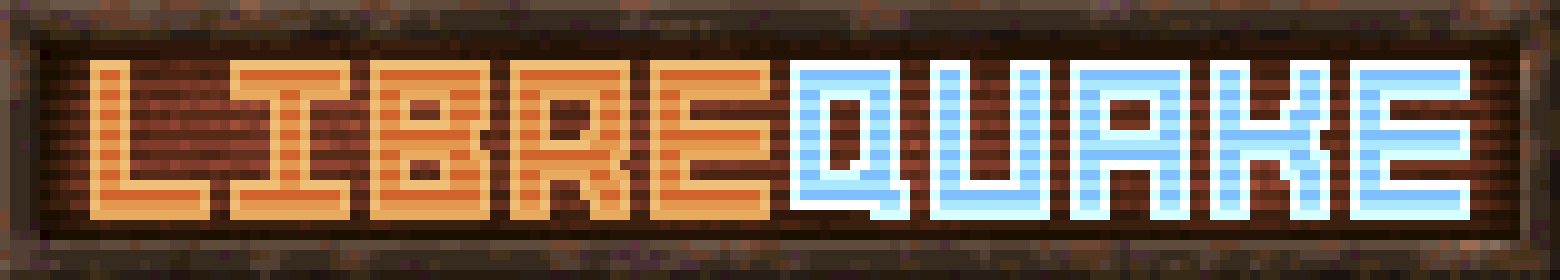
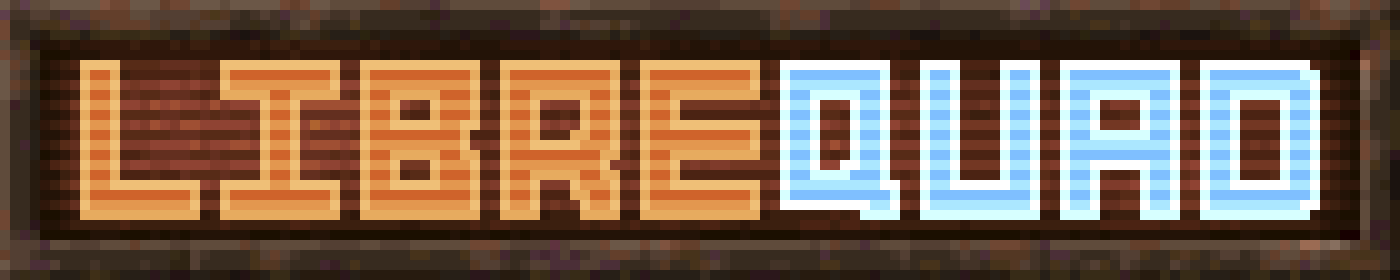
GIT: updated branding to LibreQuad

diff --git a/README.md b/README.md
@@ -7,13 +7,13 @@
 <h3><p align="center"><a href="https://discord.gg/nsr6DTF6RX">[Discord]</a></p></h3>
 <h1></h1>
 <p align="center"><img src="docs/branding/icon.svg" alt="libre quake icon" width="10%" /></p>
-<h1><p align="center">LibreQuake</p></h1>
-The *LibreQuake* project aims to create a complete, free content first-person shooter game, but *LibreQuake* by itself is just the raw material for a game. It must be paired with a compatible engine to be played.
+<h1><p align="center">LibreQuad</p></h1>
+The *LibreQuad* project aims to create a complete, free content first-person shooter game, but *LibreQuad* by itself is just the raw material for a game. It must be paired with a compatible engine to be played.
 
 
-There is a massive [back catalogue](https://www.quaddicted.com), spanning over two decades, containing thousands of *Quake* levels and other modifications (“mods”) made by fans of the game. *LibreQuake* aims to be compatible with these and allows most to be played without the need to use non-free software.
+There is a massive [back catalogue](https://www.quaddicted.com), spanning over two decades, containing thousands of *Quake* levels and other modifications (“mods”) made by fans of the game. *LibreQuad* aims to be compatible with these and allows most to be played without the need to use non-free software.
 
-The engine uses a directory called `id1/`, within that directory there are two archives called `pak0.pak` and `pak1.pak`, these archives contain all the game data except the soundtrack. While the *Quake* engine source code is free, you would usually still need one of the proprietary data files from [id Software](http://www.idsoftware.com) to play *Quake*. *LibreQuake* aims to create a free alternative: combined with the GPL-licensed *Quake* source code, this results in a completely free game.
+The engine uses a directory called `id1/`, within that directory there are two archives called `pak0.pak` and `pak1.pak`, these archives contain all the game data except the soundtrack. While the *Quake* engine source code is free, you would usually still need one of the proprietary data files from [id Software](http://www.idsoftware.com) to play *Quake*. *LibreQuad* aims to create a free alternative: combined with the GPL-licensed *Quake* source code, this results in a completely free game.
 
 
 
@@ -28,29 +28,29 @@ The engine uses a directory called `id1/`, within that directory there are two a
 
 <h1><p align="center">How to Play</h1>
 
-Since *LibreQuake* is only the game data, you will still need to download an engine (or source port). One particularly recommended by the *LibreQuake* project is [FTEQW](https://fte.triptohell.info/downloads) This engine offers great support for both singleplayer multiplayer and the majority of mods created for both *Quake* and *LibreQuake*. [vkQuake](https://github.com/Novum/vkQuake/releases), [QuakeSpasmSpiked](https://triptohell.info/moodles/qss) and [Ironwail](https://github.com/andrei-drexler/ironwail/releases) are also good options. For even more options, see the [Quake Wiki](https://quakewiki.org/wiki/Engines).
+Since *LibreQuad* is only the game data, you will still need to download an engine (or source port). One particularly recommended by the *LibreQuad* project is [FTEQW](https://fte.triptohell.info/downloads) This engine offers great support for both singleplayer multiplayer and the majority of mods created for both *Quake* and *LibreQuad*. [vkQuake](https://github.com/Novum/vkQuake/releases), [QuakeSpasmSpiked](https://triptohell.info/moodles/qss) and [Ironwail](https://github.com/andrei-drexler/ironwail/releases) are also good options. For even more options, see the [Quake Wiki](https://quakewiki.org/wiki/Engines).
 
-Once you have downloaded an engine, paste the downloaded id1 (or lq1) folder in the same directory you put the engine executable. This is the executable you will run to start LibreQuake.
+Once you have downloaded an engine, paste the downloaded id1 (or lq1) folder in the same directory you put the engine executable. This is the executable you will run to start LibreQuad.
 
 If you would like to set up a LAN deathmatch game, see [docs/deathmatch-setup-guide.txt](https://github.com/lavenderdotpet/LibreQuake/blob/main/docs/deathmatch-setup-guide.txt) for more information.
 
 <h1><p align="center">What “Free” Means</h1>
 
-When we speak of free content or software, we refer to the movement in which your freedom to use, copy, modify, and study a work is not infringed. For example, you may freely use *LibreQuake* for any purpose you see fit, you may redistribute it to anyone without needing to ask for permission, you may modify it (provided you keep the license intact, see `COPYING`), and you may study it. You may read more about free software at the [GNU](http://www.gnu.org/) and [Free Software Foundation](http://www.fsf.org) websites.
+When we speak of free content or software, we refer to the movement in which your freedom to use, copy, modify, and study a work is not infringed. For example, you may freely use *LibreQuad* for any purpose you see fit, you may redistribute it to anyone without needing to ask for permission, you may modify it (provided you keep the license intact, see `COPYING`), and you may study it. You may read more about free software at the [GNU](http://www.gnu.org/) and [Free Software Foundation](http://www.fsf.org) websites.
 
 <h1><p align="center">Other Info</h1>
 
 <h3><p align="center">Crediting information</h3>
 
-*LibreQuake* is made up of submissions from many people all over the globe. All of them, including **you**, deserve credit! Please do not forget to provide your name and email when submitting resources.
+*LibreQuad* is made up of submissions from many people all over the globe. All of them, including **you**, deserve credit! Please do not forget to provide your name and email when submitting resources.
 
 <h3><p align="center">Using Git</h3>
 
-You can also commit on a clone of the *LibreQuake* repository, although this is a technical task and it is okay to let other *LibreQuake* maintainers to do it instead: that is our normal mode of operation. However, pull requests are much appreciated and you may submit them in any manner you wish, with GitHub’s direct pull requests being the simplest, but by far not the only means.
+You can also commit on a clone of the *LibreQuad* repository, although this is a technical task and it is okay to let other *LibreQuad* maintainers to do it instead: that is our normal mode of operation. However, pull requests are much appreciated and you may submit them in any manner you wish, with GitHub’s direct pull requests being the simplest, but by far not the only means.
 
-*LibreQuake* uses the commit message style commonly seen in distributed version control systems, adopted by projects such as Linux and Git. For an explanation of this style, see [How to Write a Git Commit Message](https://chris.beams.io/posts/git-commit/).
+*LibreQuad* uses the commit message style commonly seen in distributed version control systems, adopted by projects such as Linux and Git. For an explanation of this style, see [How to Write a Git Commit Message](https://chris.beams.io/posts/git-commit/).
 
-For more detailed information on the specifics of contributing to this project, see [How to Contribute to the LibreQuake Project](https://github.com/lavenderdotpet/LibreQuake/blob/main/CONTRIBUTING.md)
+For more detailed information on the specifics of contributing to this project, see [How to Contribute to the LibreQuad Project](https://github.com/lavenderdotpet/LibreQuake/blob/main/CONTRIBUTING.md)
 
 <p align="center">
   <img src="docs/branding/boxrotate.webp" alt="Libre Quake game box art rotating animation" width="20%" />

diff --git a/CONTRIBUTING.md b/CONTRIBUTING.md
@@ -1,8 +1,8 @@
-# How to Contribute to the LibreQuake Project
+# How to Contribute to the LibreQuad Project
 
 ## Background
 
-Previously we have had a very much archaic and unstandardized approach to how we accept contributions to the LibreQuake project. This has had quite a few problems as a result, some examples being:
+Previously we have had a very much archaic and unstandardized approach to how we accept contributions to the LibreQuad project. This has had quite a few problems as a result, some examples being:
 
 * A "dirty" git log, making tracking regressions or general progress difficult
 * Lack of quality control (Does this change actually work? Does the project still build? Are the contribution detais easy to read and understand?)
@@ -18,7 +18,7 @@ You must be careful when basing on existing graphics or sounds. Most Quake proje
 
 The general rules go as follows:
 
-You must have permission for everything you submit. If you make your own resources, do not base them on resources from Quake or any other restricted work. If you take work from other places, please make sure that the work is freely-licensed or that you obtain permission to include it in the LibreQuake project. They may not place additional restrictions compared to the normal LibreQuake license.
+You must have permission for everything you submit. If you make your own resources, do not base them on resources from Quake or any other restricted work. If you take work from other places, please make sure that the work is freely-licensed or that you obtain permission to include it in the LibreQuad project. They may not place additional restrictions compared to the normal LibreQuad license.
 
 Do not try to emulate Quake resources exactly. Where possible, put effort to make new versions look visibly different from Quake. This is a tough call because our compatibility with Quake mods limits how far we can deviate, but it is feasible.
 
@@ -26,7 +26,7 @@ Be especially careful of “free textures” (or “free sounds” or “free gr
 
 ## Levels
 
-Not all levels for LibreQuake must be vanilla-compatible Winquake/vanilla-compatible levels will have their own episode
+Not all levels for LibreQuad must be vanilla-compatible Winquake/vanilla-compatible levels will have their own episode
 
 It is sensible to also heed the following guidelines:
 
@@ -34,14 +34,14 @@ It is sensible to also heed the following guidelines:
 
 2. Try to make levels appropriately difficult for their position within the progression of the game. Also bear in mind that not all players may be as skilled a player as you.
 
-3. While unrestricted by limits, do not make excessively complicated scenes. It is desirable that LibreQuake levels should be playable on low-powered hardware, such as phones and old computers.
+3. While unrestricted by limits, do not make excessively complicated scenes. It is desirable that LibreQuad levels should be playable on low-powered hardware, such as phones and old computers.
 
 
 ## Branches
 
 Please do not generalize branches. Use branches for specific features or concepts.
 
-If you are a Collaborator (meaning, if you are added to the LibreQuake repository and have administrative control) it is required that your branch naming scheme is as follows:
+If you are a Collaborator (meaning, if you are added to the LibreQuad repository and have administrative control) it is required that your branch naming scheme is as follows:
 
 `{username}/{change-subject}`
 

diff --git a/.github/pull_request_template.md b/.github/pull_request_template.md
@@ -23,7 +23,7 @@ See "CONTRIBUTING.md" for details.
 ### Checklist
 ---
 
-- [ ] I have read the LibreQuake contribution guidelines
+- [ ] I have read the LibreQuad contribution guidelines
 - [ ] I have thoroughly tested my changes to the best of my ability
-- [ ] I confirm I have not contributed anything that would impact LibreQuake's licensing and usage
+- [ ] I confirm I have not contributed anything that would impact LibreQuad's licensing and usage
 - [ ] This Pull Request fixes a **critical** issue that should be reviewed and merged as soon as possible
